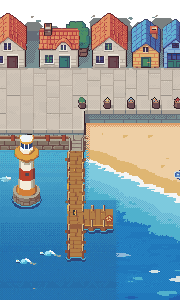
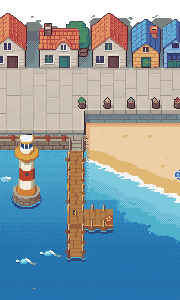
항구 도시 합침본 다듬기: 축대·계단 살리고 오른쪽 아래 바다 이음매를 얕은 물 끝을 따라 (mix/harbor.png 를 쓸 판으로)
Claude-Session: https://claude.ai/code/session_012Z4iFifcZH9cfXSxsF9mWo

Changed region(s): [[0.6389, 0.9, 1.0, 0.99], [0.6389, 0.84, 0.7222, 0.87]]

diff --git a/assets_src/maps/mix/harbor_mix.py b/assets_src/maps/mix/harbor_mix.py
@@ -33,3 +33,16 @@ for y in range(140,215):
         if lum(c)<120: continue
         po[x,y]=c; break
 out.save(sys.argv[2])
+# 4) 오른쪽 아래 바다: 250 얕은 물이 끝나는 곳부터는 350 깊은 바다로 (밝기 차 이음매 없앰)
+out=Image.open(sys.argv[2]); po=out.load()
+for x in range(116,180):
+  y0=None
+  for y in range(170,296):
+    if all(lum(pa[x,y+k])<118 and pa[x,y+k][2]>pa[x,y+k][0]+40 for k in range(4)): y0=y; break
+  if y0 is None: continue
+  for y in range(y0,300):
+    sy=min(299,y+DY)
+    if y+DY>299: sy=276+((y+DY-300)%12)
+    if y==y0 and x%2: continue
+    po[x,y]=pb[x,sy]
+out.save(sys.argv[2])
